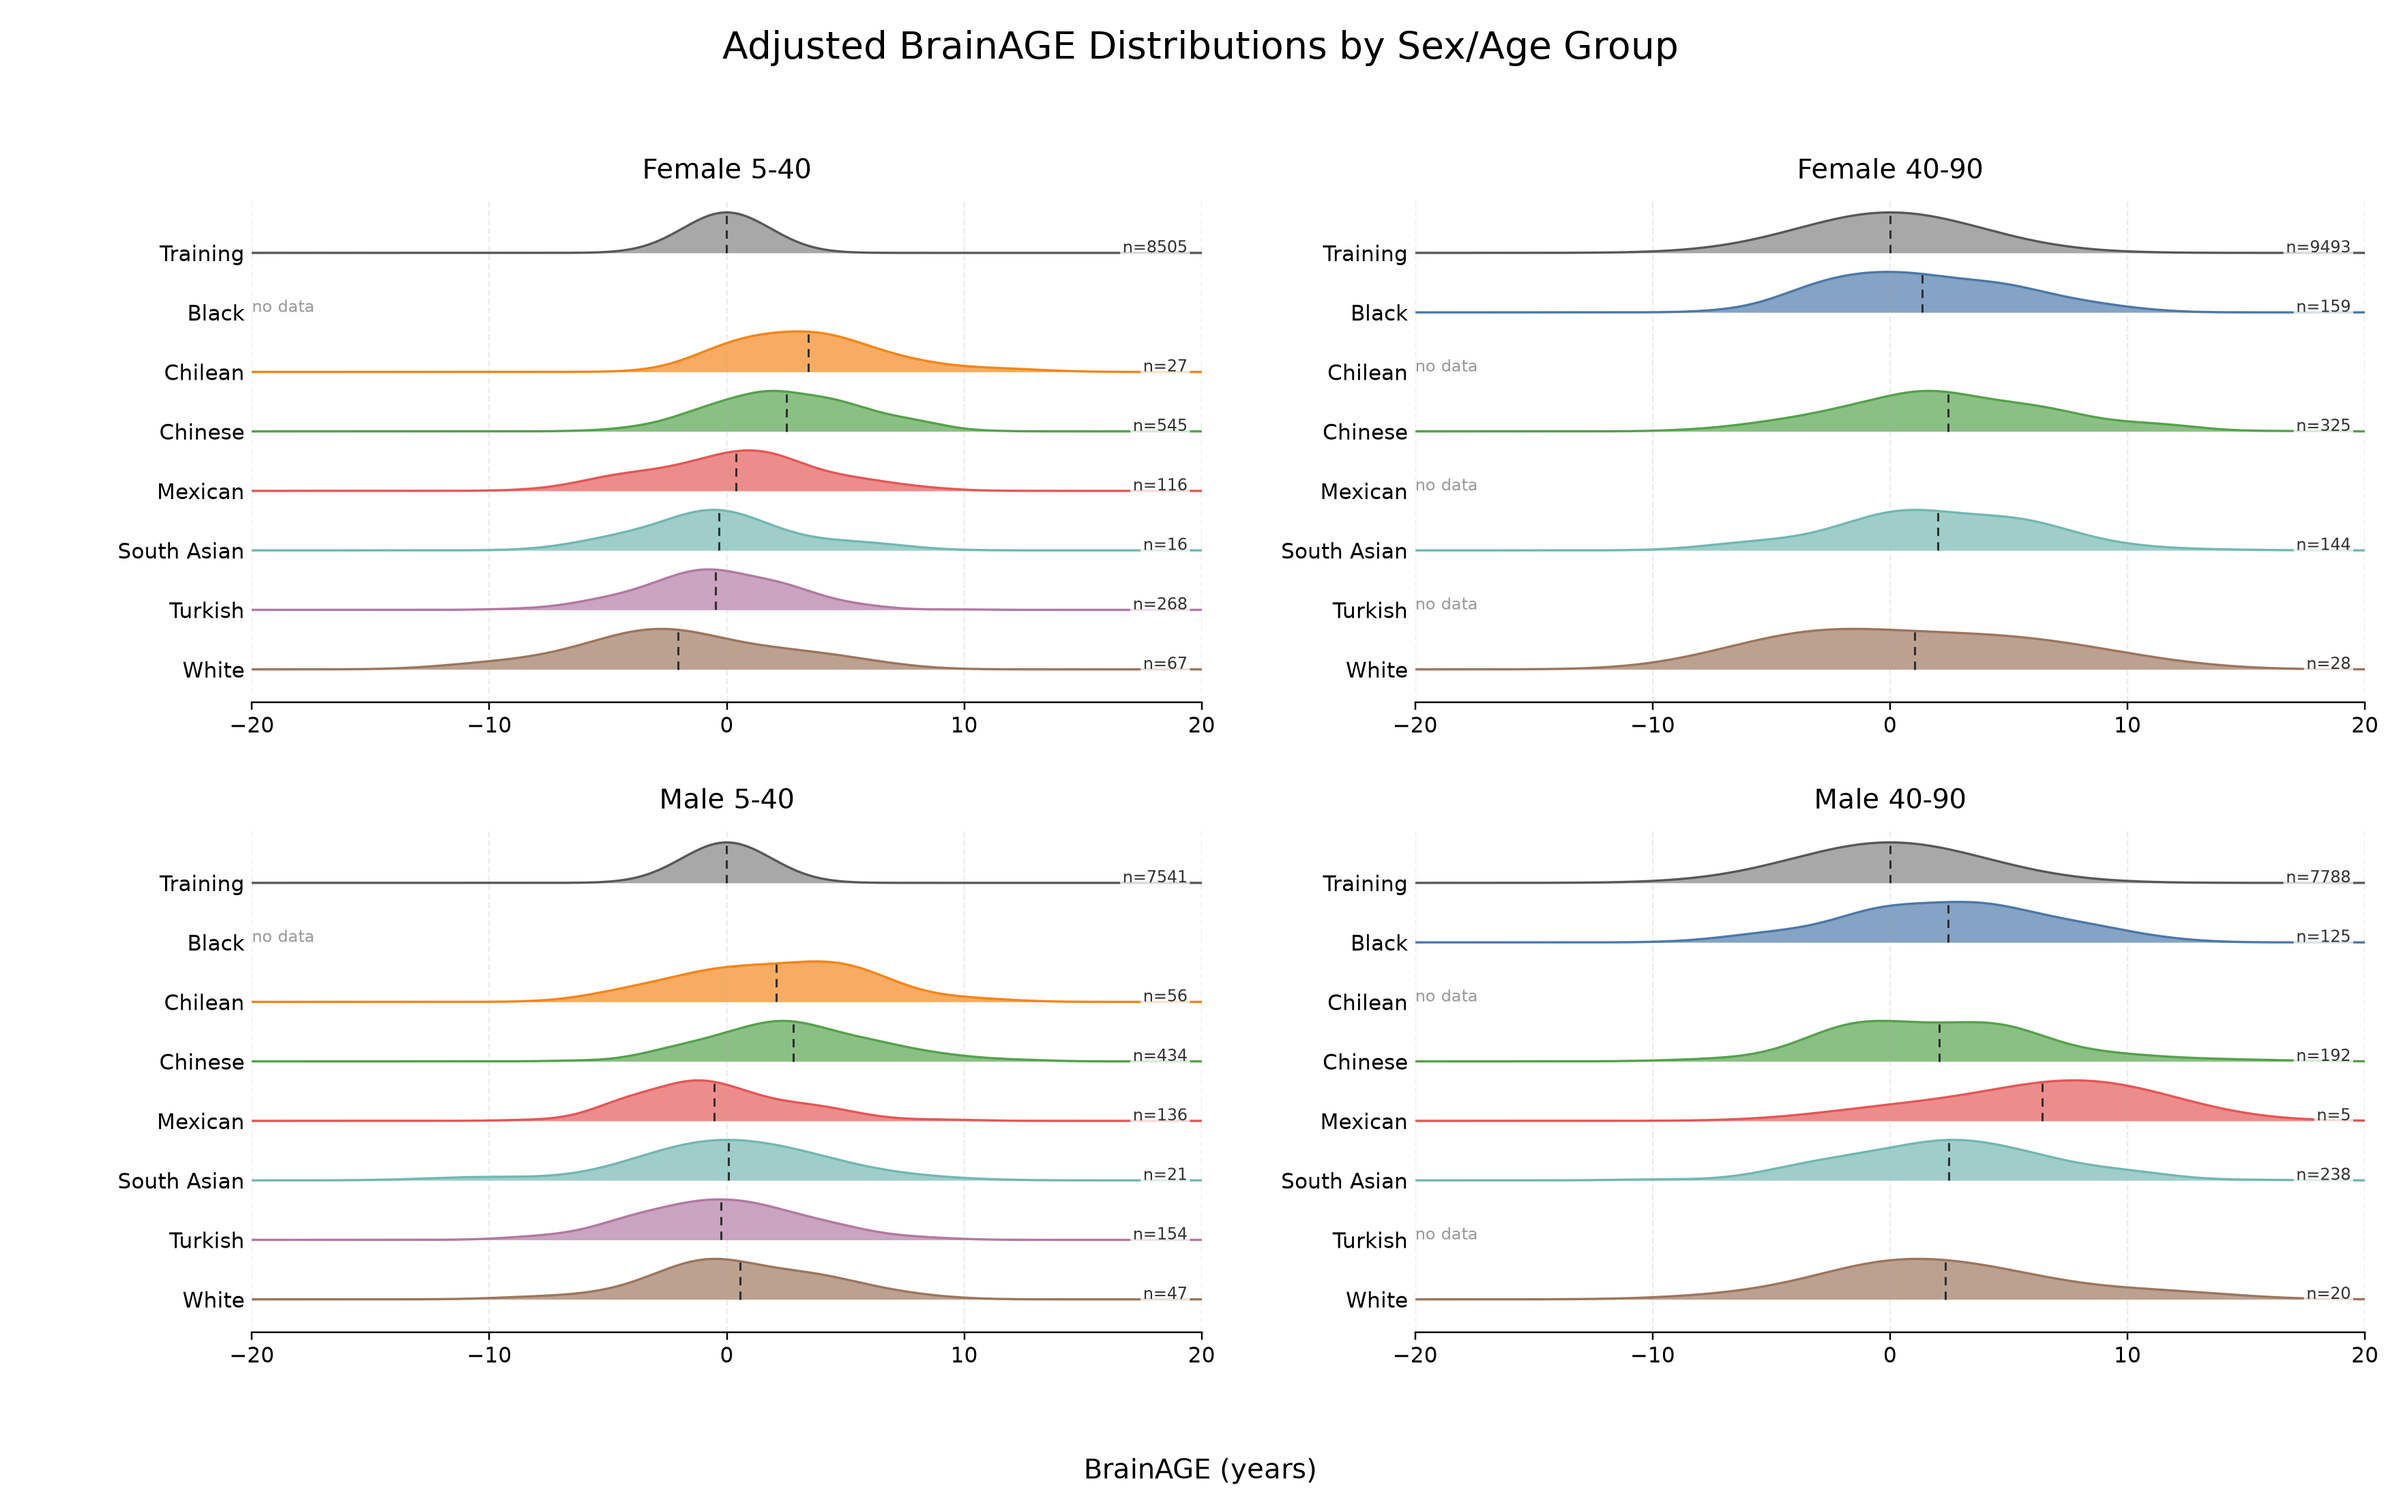
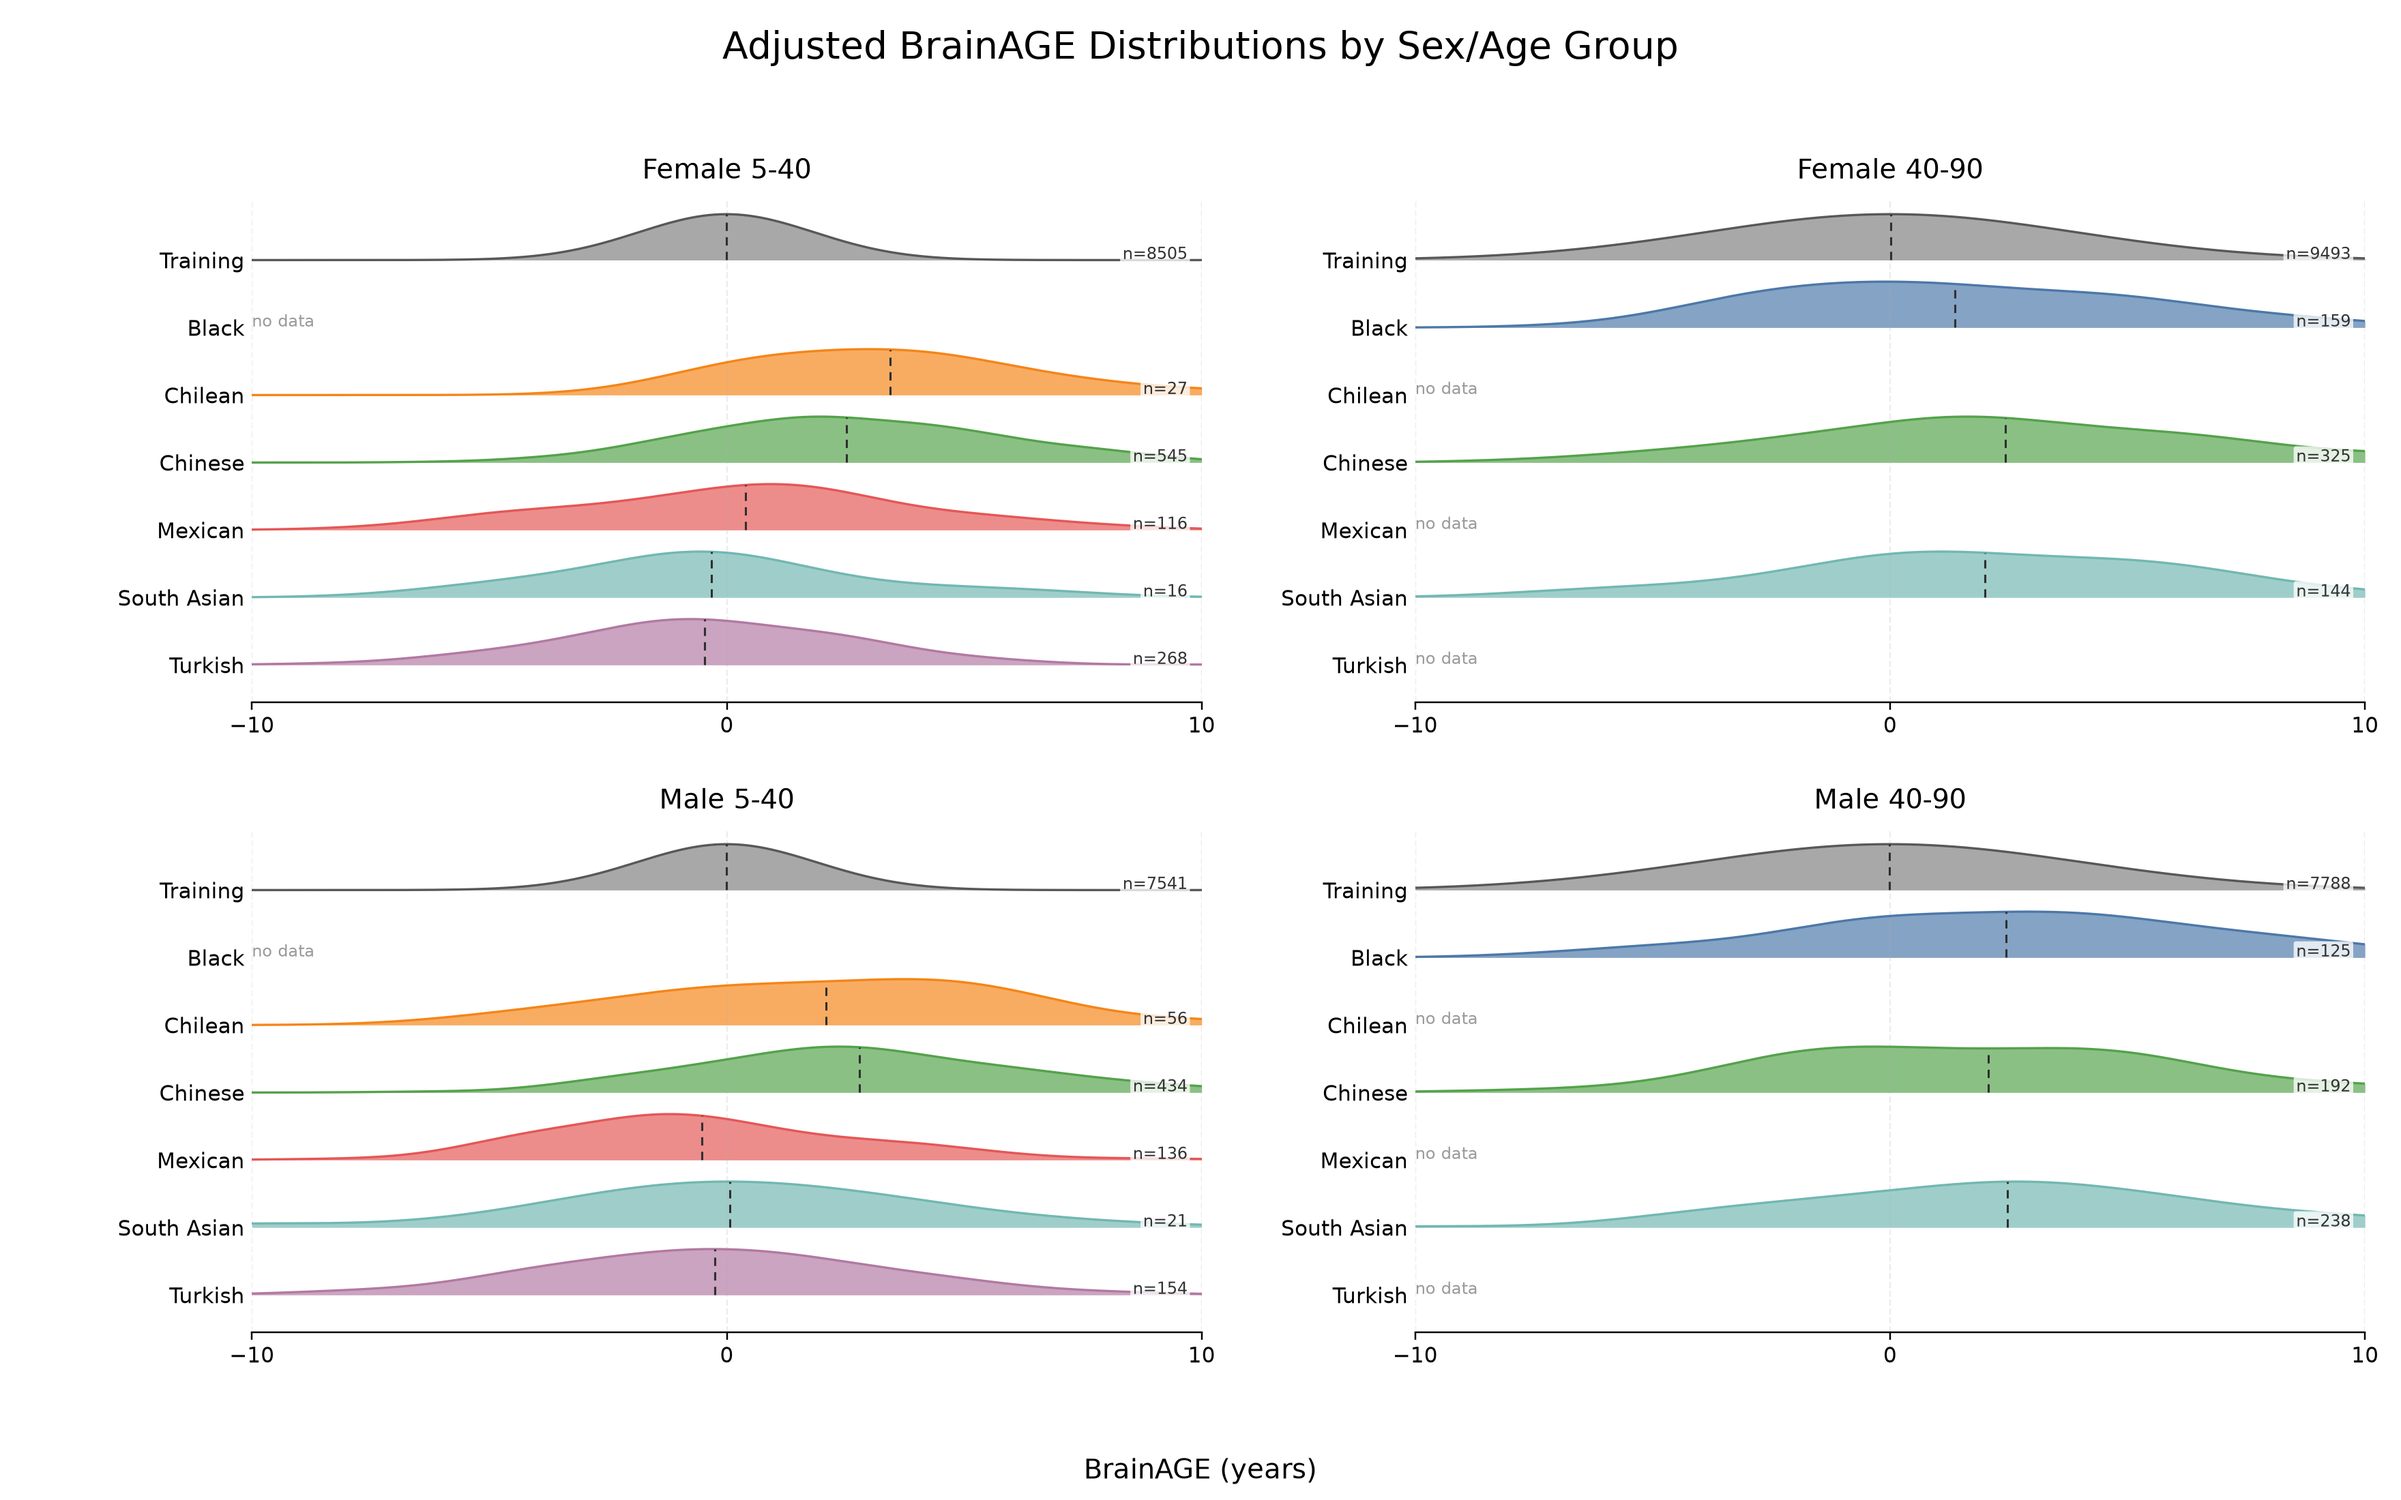
graph parameters changed

diff --git a/plot_brainage_ridges.py b/plot_brainage_ridges.py
@@ -27,13 +27,17 @@ DATASET_LABELS = {
     "self_white": "White",
 }
 
-ROW_ORDER = ["Training", "Black", "Chilean", "Chinese", "Mexican", "South Asian", "Turkish", "White"]
+ROW_ORDER = ["Training", "Black", "Chilean", "Chinese", "Mexican", "South Asian", "Turkish"]
 PANEL_ORDER = [
     ("Female", "5-40"),
     ("Female", "40-90"),
     ("Male", "5-40"),
     ("Male", "40-90"),
 ]
+EXCLUDED_ROWS = {
+    ("White", None, None),
+    ("Mexican", "Male", "40-90"),
+}
 
 COLORS = {
     "Training": "#585858",
@@ -68,7 +72,7 @@ X_AXIS_MARGIN_FRACTION = 0.10
 X_AXIS_MIN_MARGIN = 1.0
 X_AXIS_LABEL = "BrainAGE (years)"
 X_AXIS_TICK_STEP = 10
-X_AXIS_LIMITS = (-20, 20)
+X_AXIS_LIMITS = (-10, 10)
 
 # The ridgeline input table is large and can be regenerated from the output CSVs.
 # Turn this on only when you want the underlying plotted values saved for checking.
@@ -191,7 +195,15 @@ def load_self_records() -> list[pd.DataFrame]:
 def build_plot_data() -> pd.DataFrame:
     data = pd.concat(load_training_records() + load_self_records(), ignore_index=True)
     data = data.dropna(subset=["BrainAGE"])
+    for dataset, sex, age_group in EXCLUDED_ROWS:
+        mask = data["dataset"].eq(dataset)
+        if sex is not None:
+            mask &= data["sex"].eq(sex)
+        if age_group is not None:
+            mask &= data["age_group"].eq(age_group)
+        data = data.loc[~mask]
     data["dataset"] = pd.Categorical(data["dataset"], categories=ROW_ORDER, ordered=True)
+    data = data.dropna(subset=["dataset"])
     data["panel"] = data["sex"] + " " + data["age_group"]
     return data.sort_values(["kind", "sex", "age_group", "dataset"]).reset_index(drop=True)
 
